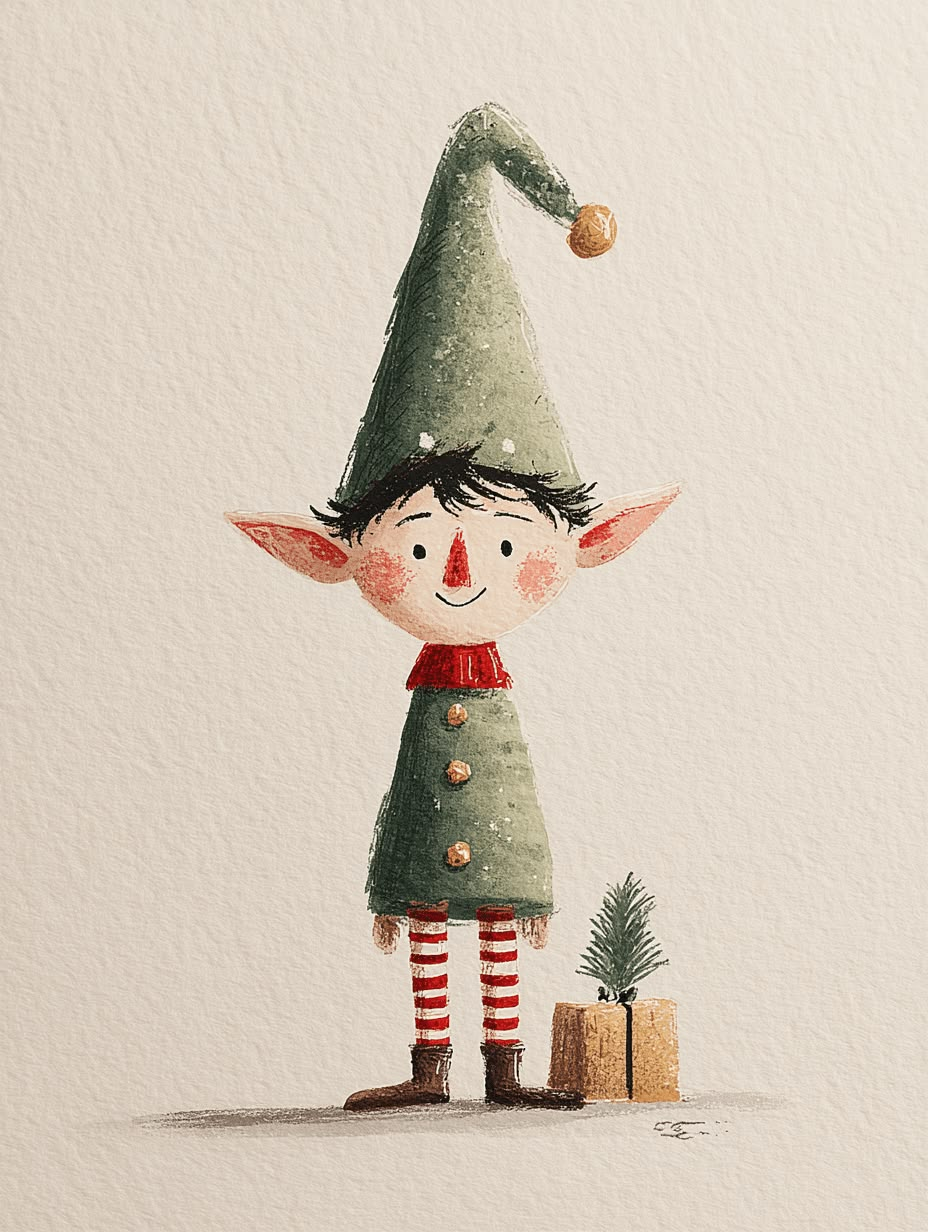
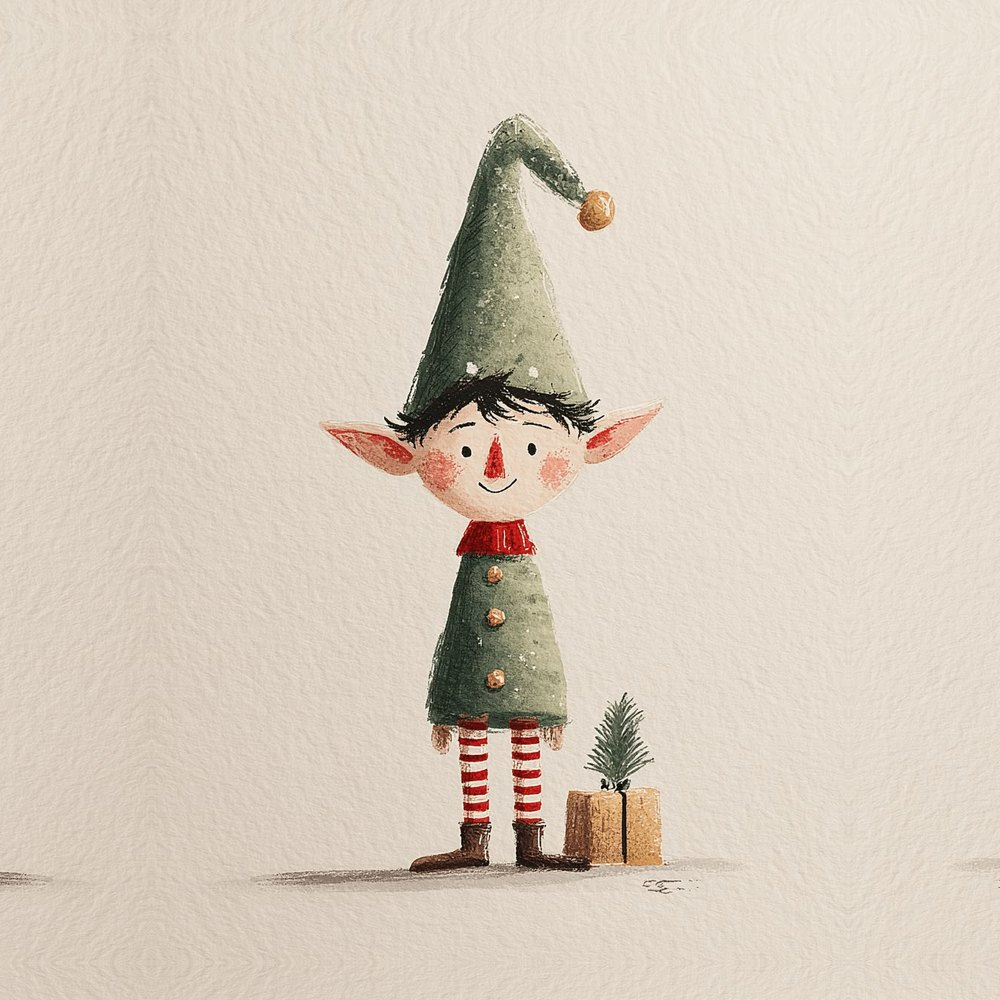
content: el elfo entero en la tarjeta del taller de Navidad de ninos

Changed region(s): [[0.1562, 0.062, 0.7812, 0.93], [0.0, 0.868, 0.0312, 0.899]]

diff --git a/index.html b/index.html
@@ -338,7 +338,7 @@
                 <span class="workshop-tile__meta">Adultos/as · 50 €</span>
               </a>
               <a class="workshop-tile" href="#/taller-navidad" data-reveal>
-                <span class="workshop-tile__media"><img decoding="async" data-src="assets/images/navidad-elfo.jpg" alt="Ilustración infantil de un elfo navideño con gorro verde y calcetines de rayas, junto a un regalo" /></span>
+                <span class="workshop-tile__media"><img decoding="async" data-src="assets/images/navidad-elfo.jpg?v=2" alt="Ilustración infantil de un elfo navideño con gorro verde y calcetines de rayas, junto a un regalo" /></span>
                 <span class="workshop-tile__date">19 de diciembre</span>
                 <span class="workshop-tile__name">Taller de Navidad</span>
                 <span class="workshop-tile__meta">Niños/as · 40 €</span>
@@ -596,7 +596,7 @@
         <section class="event-detail panel panel--cream" aria-labelledby="navidad-title">
           <div class="section-shell event-detail__shell">
             <figure class="event-detail__image" data-reveal>
-              <img decoding="async" data-src="assets/images/navidad-elfo.jpg" alt="Ilustración infantil de un elfo navideño con gorro verde y calcetines de rayas, junto a un regalo" />
+              <img decoding="async" data-src="assets/images/navidad-elfo.jpg?v=2" alt="Ilustración infantil de un elfo navideño con gorro verde y calcetines de rayas, junto a un regalo" />
             </figure>
             <div class="event-detail__content" data-reveal>
               <a class="back-link" href="#/talleres-y-monograficos?scrollTo=proximos-talleres">← Volver a talleres</a>
